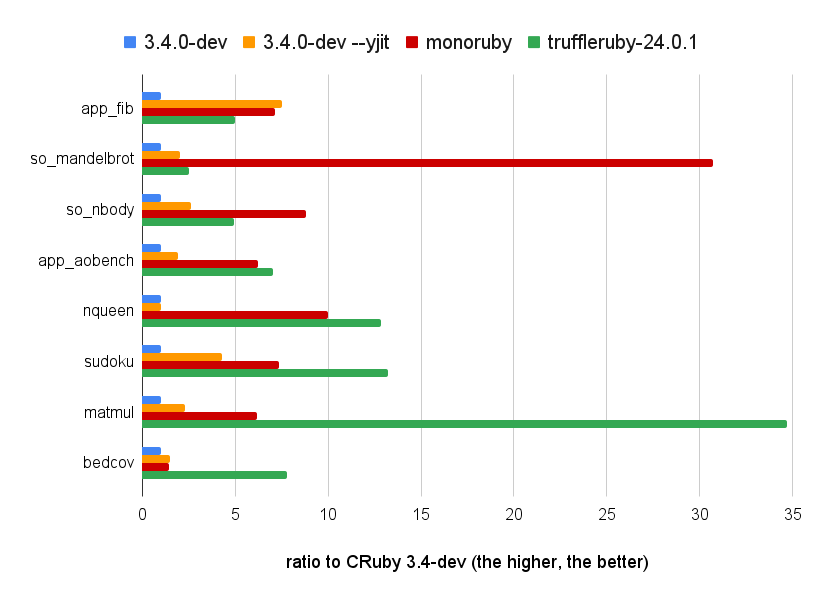
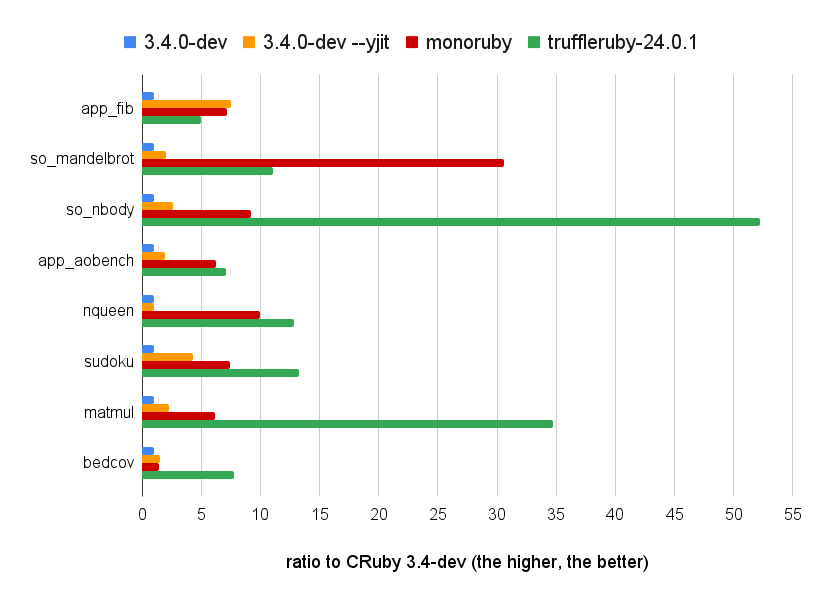
Fix README and its figures.

diff --git a/monoruby/src/tests.rs b/monoruby/src/tests.rs
@@ -1,6 +1,6 @@
 use super::*;
 use ruruby_parse::Parser;
-use std::io::{Read, Write};
+use std::io::Write;
 use std::path::PathBuf;
 
 mod case;
@@ -211,29 +211,17 @@ fn run_test_main(globals: &mut Globals, code: &str, no_gc: bool) -> Value {
     res
 }
 
-fn spawn_ruby() -> Option<std::process::Child> {
-    for i in 0..5 {
-        match std::process::Command::new("bash")
-            .args(&["-C", "ruby"])
-            .stdin(std::process::Stdio::piped())
-            .stdout(std::process::Stdio::piped())
-            .spawn()
-        {
-            Err(why) => {
-                if i == 4 {
-                    panic!("couldn't spawn ruby.: {}", why)
-                } else {
-                    std::thread::sleep(std::time::Duration::from_secs(1));
-                }
-            }
-            Ok(process) => return Some(process),
-        }
-    }
-    None
+fn spawn_ruby() -> std::process::Child {
+    std::process::Command::new("bash")
+        .args(&["-C", "ruby"])
+        .stdin(std::process::Stdio::piped())
+        .stdout(std::process::Stdio::piped())
+        .spawn()
+        .unwrap_or_else(|err| panic!("couldn't spawn ruby.: {}", err))
 }
 
 fn run_ruby(globals: &mut Globals, code: &str) -> Value {
-    let process = spawn_ruby().unwrap();
+    let mut process = spawn_ruby();
 
     let code = format!(
         r#"
@@ -244,23 +232,24 @@ fn run_ruby(globals: &mut Globals, code: &str) -> Value {
         code
     );
 
-    match process.stdin.unwrap().write_all(code.as_bytes()) {
+    match process.stdin.take().unwrap().write_all(code.as_bytes()) {
         Err(why) => panic!("couldn't write to ruby stdin: {}", why),
-        Ok(_) => println!("sent code to ruby: {}", code),
+        Ok(_) => eprintln!("sent code to ruby: {}", code),
     }
 
-    let mut response = String::new();
-    match process.stdout.unwrap().read_to_string(&mut response) {
+    let res = match process.wait_with_output() {
         Err(why) => panic!("couldn't read ruby stdout: {}", why),
-        Ok(_) => {}
-    }
+        Ok(res) => {
+            if !res.status.success() {
+                eprintln!("ruby exited with: {}", res.status);
+            }
+            let res = String::from_utf8(res.stdout);
+            eprintln!("{:?}", res);
+            res.unwrap()
+        }
+    };
 
-    let res = std::str::from_utf8(response.as_bytes())
-        .unwrap()
-        .trim_end()
-        .split('\n')
-        .last()
-        .unwrap();
+    let res = res.trim_end().split('\n').last().unwrap();
     let nodes = Parser::parse_program(res.to_string(), PathBuf::new())
         .unwrap()
         .node;

diff --git a/README.md b/README.md
@@ -119,19 +119,20 @@ Several Ruby implementations described below were measured by [optcarrot](https:
 ### micro benchmark
 
 - measured by [benchmark-driver](https://github.com/benchmark-driver/benchmark-driver) with '--repeat-count 3' option.
-- benchmark codes are [in the official repo](https://github.com/ruby/ruby/tree/master/benchmark) and [plb2](https://github.com/attractivechaos/plb2).
+- benchmark codes are in [the official repo](https://github.com/ruby/ruby/tree/master/benchmark) and [plb2](https://github.com/attractivechaos/plb2).
 - measurements are shown in iteration/sec (the higher, the better).
+- warm up cycles prior to measurement; 50 cycles for mandelbrot and 200 cycles for nbody. (see benchmark/so_mandelbrot.yml and so_nbody.yml)
 
-|               | 3.4-dev | 3.4-dev --yjit | truffleruby+graalvm-24.0.1 | truffleruby-24.0.1 | monoruby | monoruby --no-jit |
-| :------------ | ------: | -------------: | -------------------------: | -----------------: | -------: | ----------------: |
-| app_fib       |   5.473 |         41.195 |                      6.988 |             27.447 |   39.174 |             9.912 |
-| so_mandelbrot |   0.968 |          1.980 |                      1.144 |              2.425 |   29.720 |             1.080 |
-| so_nbody      |   1.768 |          4.633 |                      4.441 |              8.730 |   15.618 |             1.324 |
-| app_aobench   |   0.049 |          0.094 |                      0.276 |              0.346 |    0.305 |             0.044 |
-| nqueen        |   0.015 |          0.015 |                      0.206 |              0.193 |    0.150 |             0.021 |
-| sudoku        |   0.018 |          0.077 |                      0.207 |              0.238 |    0.133 |             0.020 |
-| matmul        |   0.010 |          0.023 |                      0.332 |              0.347 |    0.062 |             0.007 |
-| bedcov        |   0.033 |          0.049 |                      0.222 |              0.257 |    0.048 |             0.033 |
+|             | 3.4-dev | 3.4-dev --yjit | truffleruby+graalvm-24.0.1 | truffleruby-24.0.1 | monoruby | monoruby --no-jit |
+| :---------- | ------: | -------------: | -------------------------: | -----------------: | -------: | ----------------: |
+| app_fib     |   5.473 |         41.195 |                      6.988 |             27.447 |   39.174 |             9.912 |
+| mandelbrot  |   0.980 |          1.983 |                      8.662 |             10.833 |   29.979 |             1.044 |
+| nbody       |   1.736 |          4.543 |                     80.551 |             90.610 |   15.966 |             1.301 |
+| app_aobench |   0.049 |          0.094 |                      0.276 |              0.346 |    0.305 |             0.044 |
+| nqueen      |   0.015 |          0.015 |                      0.206 |              0.193 |    0.150 |             0.021 |
+| sudoku      |   0.018 |          0.077 |                      0.207 |              0.238 |    0.133 |             0.020 |
+| matmul      |   0.010 |          0.023 |                      0.332 |              0.347 |    0.062 |             0.007 |
+| bedcov      |   0.033 |          0.049 |                      0.222 |              0.257 |    0.048 |             0.033 |
 
 ratio to CRuby 3.4-dev were shown in the graph below.
 
